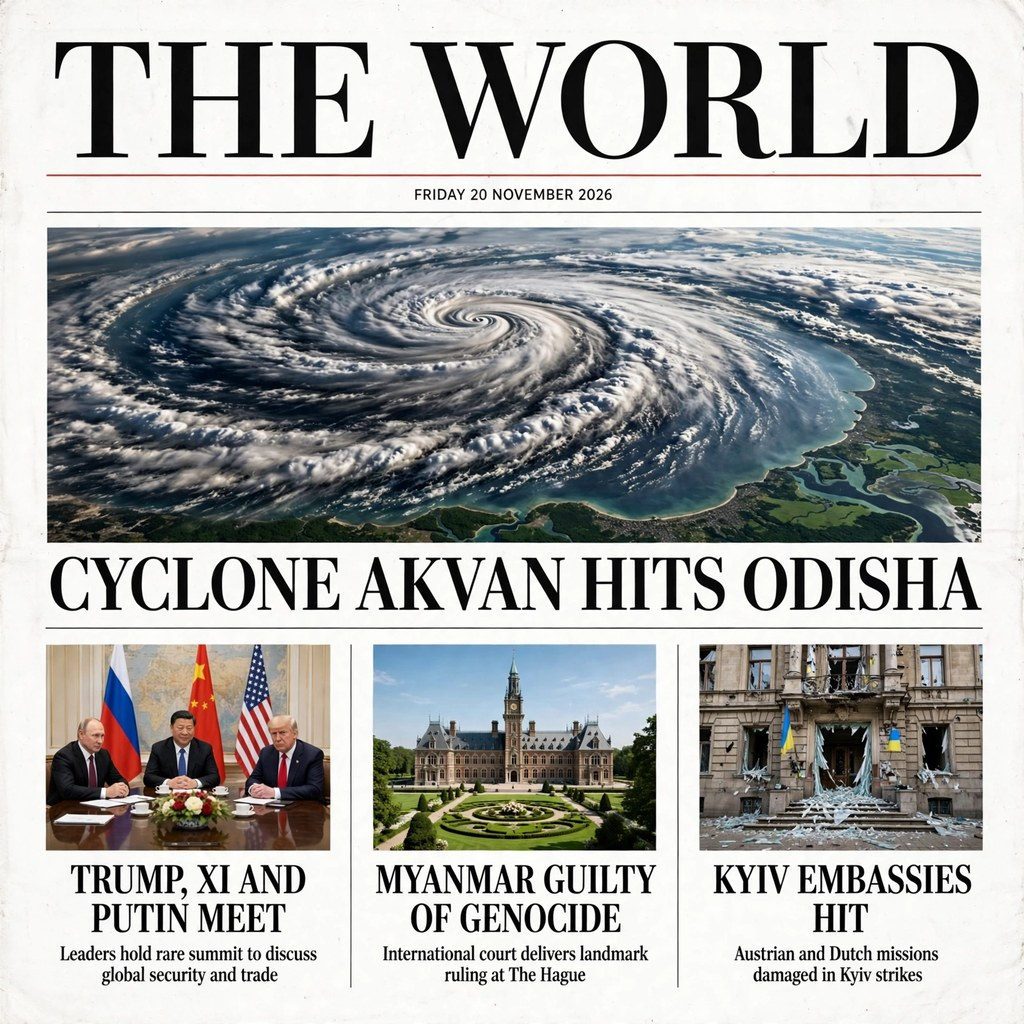
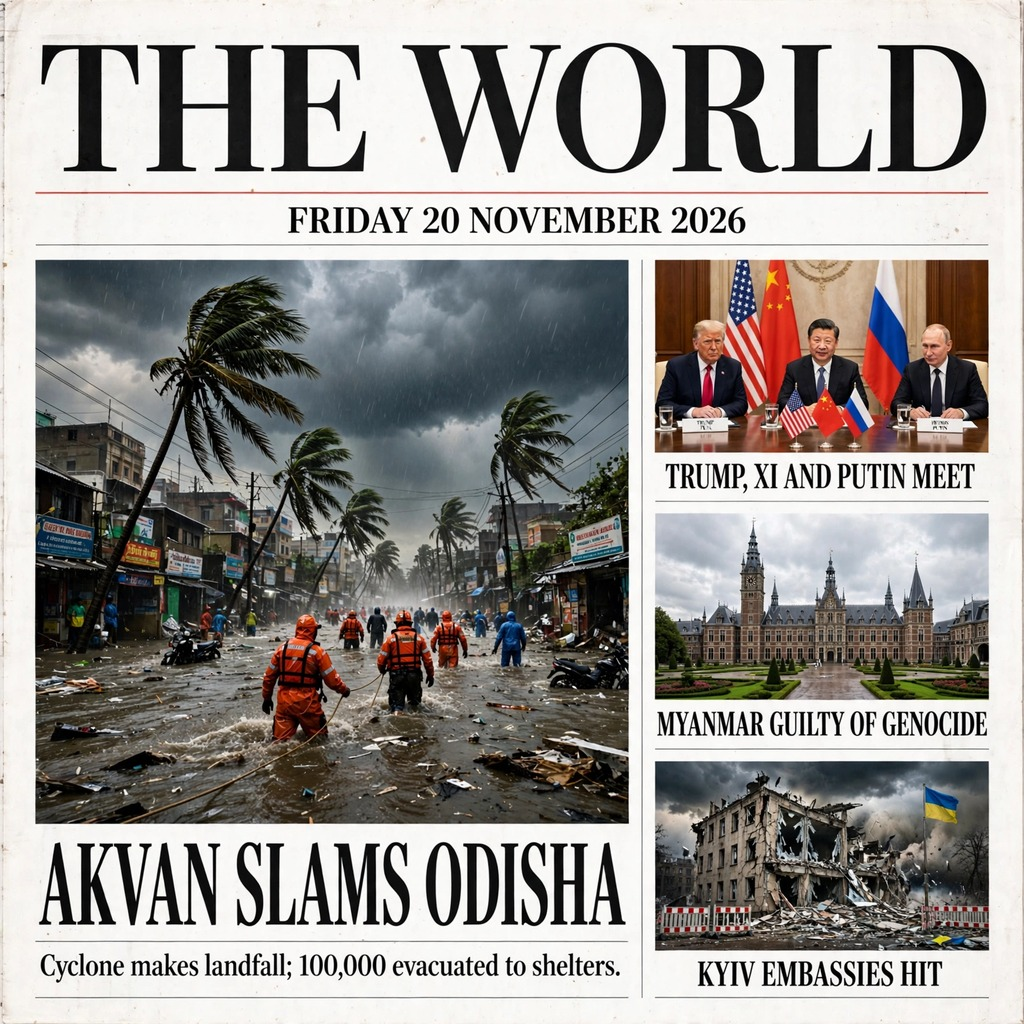
v2 (tuning round 1): classic broadsheet — ground-level Akvan lead photo, huge headline, three stacked stories

diff --git a/main.ts b/main.ts
@@ -1,15 +1,23 @@
-// news-image-20261120: a newspaper front page summing up the world news of
-// Friday 20 November 2026 — Cyclone Akvan's landfall in Odisha, the first
-// Trump–Xi–Putin trilateral in Shenzhen, the ICJ's genocide ruling against
-// Myanmar, and the Kyiv strikes that damaged the Austrian and Dutch embassies.
+// SPDX-License-Identifier: MIT
+// news-image-20261120 (v2, tuning round 1): a newspaper front page summing
+// up the world news of Friday 20 November 2026 — Cyclone Akvan's landfall in
+// Odisha, the first Trump–Xi–Putin trilateral in Shenzhen, the ICJ's
+// genocide ruling against Myanmar, and the Kyiv strikes that damaged the
+// Austrian and Dutch embassies.
+//
+// v2 rebuilds the page as a classic broadsheet: a ground-level lead photo of
+// rescue workers wading through flooded streets in Odisha under the huge
+// headline "AKVAN SLAMS ODISHA", with the summit, the Hague ruling and the
+// Kyiv strikes stacked as three captioned stories in the right-hand column.
 //
 // The image is an image-model artwork asset held in this repository
-// (entry.png). The program is deterministic and offline: it copies those
-// exact bytes to the output directory, so both graded runs write identical
-// output. Run locally with:
+// (entry.png, a 1024x1024 JPEG). The program is deterministic and offline:
+// it copies those exact bytes to the output directory, so both graded runs
+// write identical output. Run locally with:
 //   mkdir -p out && MAKEFUN_OUTPUT_DIR=out node main.ts
 
-import { copyFileSync, mkdirSync, statSync } from 'node:fs';
+import { copyFileSync, mkdirSync, readFileSync } from 'node:fs';
+import { createHash } from 'node:crypto';
 import { join } from 'node:path';
 
 const outDir = process.env.MAKEFUN_OUTPUT_DIR ?? '/output';
@@ -17,7 +25,9 @@ mkdirSync(outDir, { recursive: true });
 const source = new URL('./entry.png', import.meta.url);
 const target = join(outDir, 'entry.png');
 copyFileSync(source, target);
-// Self-check: the copy must be byte-complete, or the run fails loudly.
-if (statSync(source).size !== statSync(target).size) {
-  throw new Error('entry.png copy is incomplete');
+// Self-check: the copy must be byte-identical, or the run fails loudly.
+const hash = (path: string) =>
+  createHash('sha256').update(readFileSync(path)).digest('hex');
+if (hash(source.pathname) !== hash(target)) {
+  throw new Error('entry.png copy is not byte-identical');
 }

diff --git a/README.md b/README.md
@@ -13,12 +13,14 @@ A newspaper front page summing up the world news of Friday 20 November 2026 in o
 - **Myanmar guilty of genocide** — the International Court of Justice in The Hague rules that Myanmar committed genocide against the Rohingya, the first time the court has found a state responsible for genocide.
 - **Kyiv embassies hit** — Russian drone strikes on Kyiv damage the Austrian and Dutch embassies and St Volodymyr's Cathedral, killing one person.
 
-## The image
+## The image (v2 — tuning round 1)
 
-The front page is an image-model artwork asset (`entry.png`, 1024×1024 JPEG, 284,255 bytes): masthead and date line, a satellite view of the cyclone over the Bay of Bengal, and three captioned story panels. It is the repository's own artwork, made for this entry.
+The front page is an image-model artwork asset (`entry.png`, 1024×1024 JPEG, 346,843 bytes), rebuilt from scratch for tuning round 1. v1 led with a satellite view of the cyclone and three equal columns underneath; v2 is a classic broadsheet with a clearer hierarchy: a ground-level lead photograph of rescue workers wading through flooded streets in Odisha under the huge headline "AKVAN SLAMS ODISHA" (caption: "Cyclone makes landfall; 100,000 evacuated to shelters"), and the other three stories stacked as captioned panels in the right-hand column — the three leaders at the summit table, the Peace Palace in The Hague, and a strike-damaged building flying the Ukrainian flag in Kyiv. Same four stories, same date line, a more human lead image and larger, cleaner headlines that stay legible at small size. It is the repository's own artwork, made for this entry.
 
 ## Run it
 
 ```sh
 mkdir -p out && MAKEFUN_OUTPUT_DIR=out node main.ts
 ```
+
[1 lines of base64/hex data omitted]
